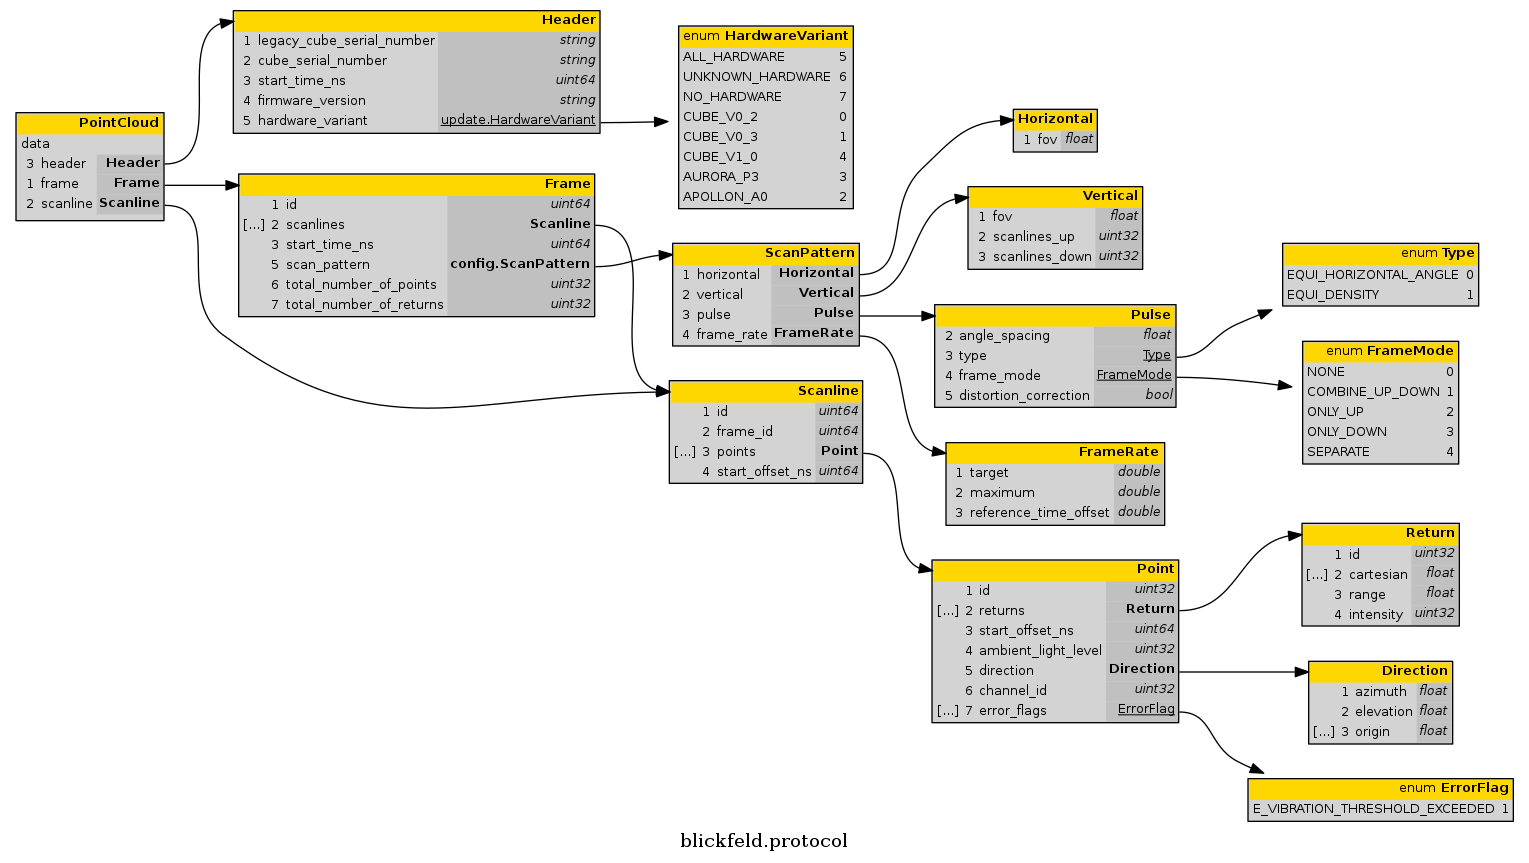
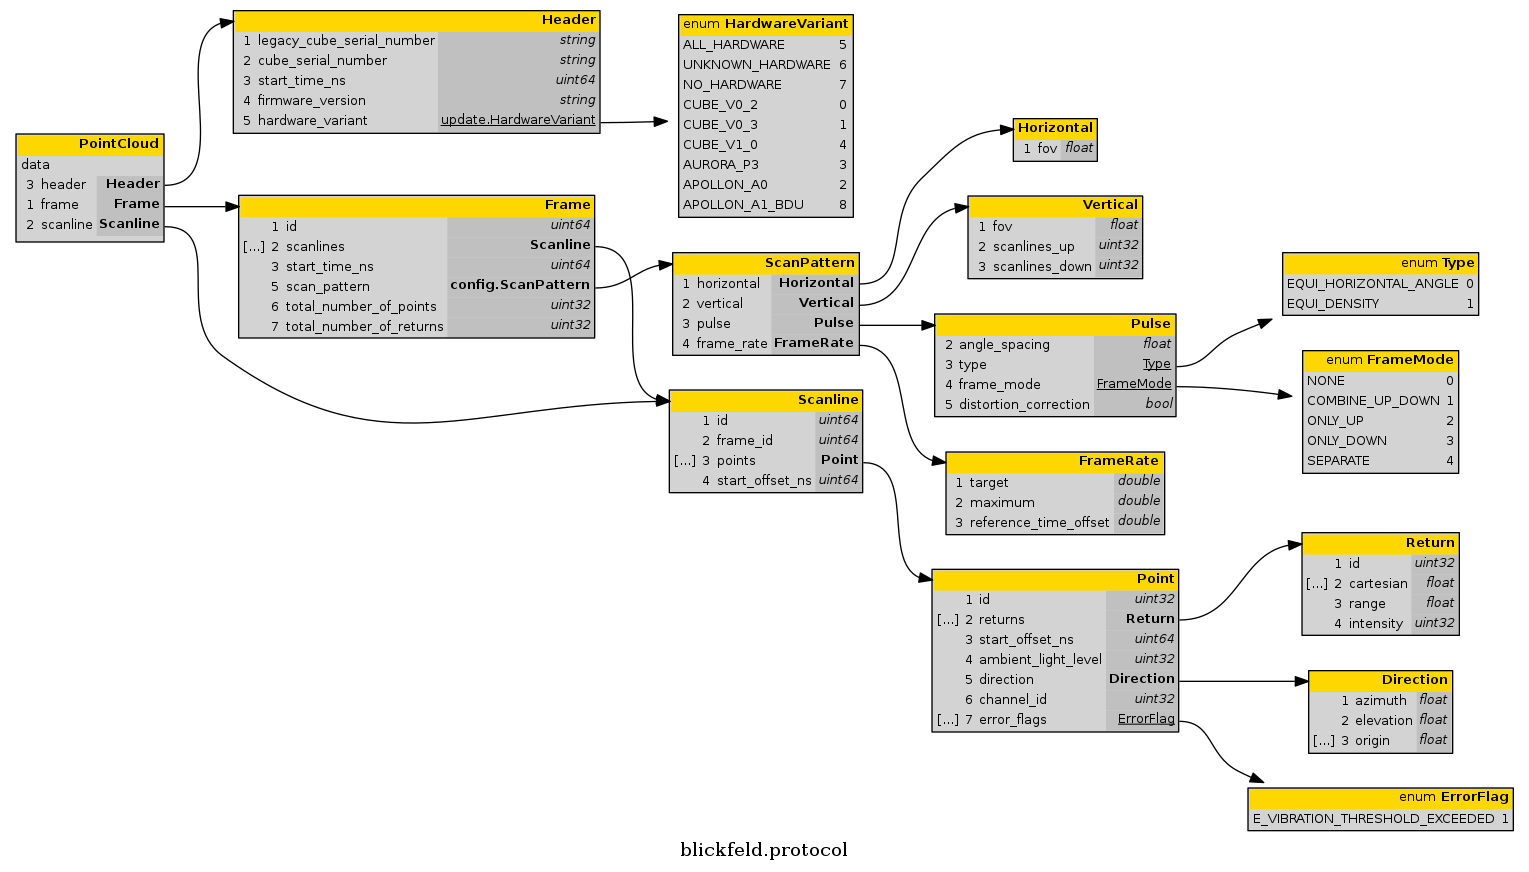
Public-Auto-release: v2.10.1
# Added
* Protocol: HW Variant Apollon A1 BDU
* Reference frame for depth map

# Changed
* Doc: Fix rendering of python point cloud stream
* Doc: Add configure point cloud stream to python examples in the doc
* Upgrade debian testing package to libprotobuf23

diff --git a/python/blickfeld_scanner/stream/point_cloud.py b/python/blickfeld_scanner/stream/point_cloud.py
@@ -56,7 +56,26 @@ REF_FRAME_XYZ_I_ID_TS.start_time_ns = 0
 REF_FRAME_XYZ_I_ID_TS.scanlines[0].start_offset_ns = 0
 REF_FRAME_XYZ_I_ID_TS.scanlines[0].points[0].start_offset_ns = 0
 
+""" Reference frame: ambient_light_level, intensity, range, frame id, scanline id, point id """
+REF_FRAME_DEPTH_MAP = frame_pb2.Frame()
+REF_FRAME_DEPTH_MAP.scan_pattern.SetInParent()
+REF_FRAME_DEPTH_MAP.total_number_of_points = 0
+REF_FRAME_DEPTH_MAP.total_number_of_returns = 0
+REF_FRAME_DEPTH_MAP.id = 0
+REF_FRAME_DEPTH_MAP.scanlines.add().points.add().returns.add()
+REF_FRAME_DEPTH_MAP.scanlines[0].id = 0
+REF_FRAME_DEPTH_MAP.scanlines[0].points[0].id = 0
+REF_FRAME_DEPTH_MAP.scanlines[0].points[0].ambient_light_level = 0
+REF_FRAME_DEPTH_MAP.scanlines[0].points[0].returns[0].intensity = 0
+REF_FRAME_DEPTH_MAP.scanlines[0].points[0].returns[0].range = 0
+
+
 class point_cloud(object):
+    """ Class to request a point cloud stream
+
+    :param connection: connection to the device
+    :type connection: :py:class:`blickfeld_scanner.scanner.connection`
+    """
 
     """ Reference frame: XYZ coordinates """
     REF_FRAME_XYZ = REF_FRAME_XYZ
@@ -66,12 +85,9 @@ class point_cloud(object):
     REF_FRAME_XYZ_I_ID = REF_FRAME_XYZ_I_ID
     """ Reference frame: XYZ coordinates, intensity, frame id, scanline id, point id, return id, timestamps """
     REF_FRAME_XYZ_I_ID_TS = REF_FRAME_XYZ_I_ID_TS
+    """ Reference frame: ambient_light_level, intensity, range, frame id, scanline id, point id """
+    REF_FRAME_DEPTH_MAP = REF_FRAME_DEPTH_MAP
 
-    """ Class to request a point cloud stream
-
-    :param connection: connection to the device
-    :type connection: :py:class:`blickfeld_scanner.scanner.connection`
-    """
     def __init__(self, connection=None, from_file=None, filter=None, reference_frame=None):
         self._metadata = point_cloud_pb2.PointCloud.Metadata()
         

diff --git a/examples/cpp/fetch_clouds/main.cpp b/examples/cpp/fetch_clouds/main.cpp
@@ -58,16 +58,15 @@ int example(int argc, char* argv[]) {
 		std::cout << frame << std::endl;
 
 		// Example for available attributes in frame
-//		time_t time_s = frame.start_time_ns() / 1e9;
-//		auto timepoint = localtime(&time_s);
-//		// Print some basic information about this frame
-//		printf ("Frame:  scanlines %u (max %0.2f Hz - current %0.2f Hz) - timestamp %f - %s",
-//			   frame.scanlines_size(),
-//			   frame.scan_pattern().frame_rate().maximum(),
-//			   frame.scan_pattern().frame_rate().target(),
-//			   frame.start_time_ns() / 1e9,
-//			   asctime(timepoint)
-//			   );
+		time_t time_s = frame.start_time_ns() / 1e9;
+		auto timepoint = localtime(&time_s);
+		printf ("Frame attributes:  scanlines %u (max %0.2f Hz - current %0.2f Hz) - timestamp %f - %s",
+			   frame.scanlines_size(),
+			   frame.scan_pattern().frame_rate().maximum(),
+			   frame.scan_pattern().frame_rate().target(),
+			   frame.start_time_ns() / 1e9,
+			   asctime(timepoint)
+			   );
 
 		// Specify number of points printed per frame
 		int print_n_points = 3;
@@ -93,11 +92,11 @@ int example(int argc, char* argv[]) {
 
 					// Example for available attributes
 					// ret.cartesian(0) equals frame.scanlines(s_ind).points(p_ind).returns(r_ind).cartesian(0)
-//					if (p_ind < 10 && s_ind == 0)
-//						printf("Point %u - ret %u [x: %4.2f, y: %4.2f, z: %4.2f] - intensity: %u\n",
-//						       point.id(), ret.id(),
-//						       ret.cartesian(0), ret.cartesian(1), ret.cartesian(2),
-//						       ret.intensity());
+					if (p_ind < print_n_points && s_ind == 0)
+						printf("Point attributes: ret %u [x: %4.2f, y: %4.2f, z: %4.2f] - intensity: %u\n",
+						       ret.id(),
+						       ret.cartesian(0), ret.cartesian(1), ret.cartesian(2),
+						       ret.intensity());
 				}
 				if (p_ind < print_n_points && s_ind == 0)
 					std::cout << std::endl;

diff --git a/include/blickfeld/scanner.h b/include/blickfeld/scanner.h
@@ -76,6 +76,7 @@ public:
 	const protocol::data::Frame REF_FRAME_XYZ_I; // Reference frame: XYZ coordinates, intensity
 	const protocol::data::Frame REF_FRAME_XYZ_I_ID; // Reference frame: XYZ coordinates, intensity, frame id, scanline id, point id, return id
 	const protocol::data::Frame REF_FRAME_XYZ_I_ID_TS; // Reference frame: XYZ coordinates, intensity, frame id, scanline id, point id, return id, timestamps
+	const protocol::data::Frame REF_FRAME_DEPTH_MAP; // Reference frame: ambient_light_level, intensity, range, frame id, scanline id, point id
 #endif
 
 	/**
@@ -281,7 +282,7 @@ public:
 	std::shared_ptr<scanner::point_cloud_stream<protocol::data::Frame> > get_point_cloud_stream();
 
 	/**
-	 * > Introduced in BSL v2.9 and firmware v1.9
+	 * > Introduced in BSL v2.10 and firmware v1.9
 	 *
 	 * Fetches point cloud frames from the device.
 	 * This call already boots up the device.
@@ -294,7 +295,7 @@ public:
 	std::shared_ptr<scanner::point_cloud_stream<protocol::data::Frame> > get_point_cloud_stream(const protocol::stream::Subscribe::PointCloud::Filter filter);
 
 	/**
-	 * > Introduced in BSL v2.9 and firmware v1.9
+	 * > Introduced in BSL v2.10 and firmware v1.9
 	 *
 	 * Fetches point cloud frames from the device.
 	 * This call already boots up the device.
@@ -307,7 +308,7 @@ public:
 	std::shared_ptr<scanner::point_cloud_stream<protocol::data::Frame> > get_point_cloud_stream(const protocol::data::Frame reference_frame);
 
 	/**
-	 * > Introduced in BSL v2.9 and firmware v1.9
+	 * > Introduced in BSL v2.10 and firmware v1.9
 	 *
 	 * Fetches point cloud frames from the device.
 	 * This call already boots up the device.

diff --git a/python/blickfeld_scanner/scanner.py b/python/blickfeld_scanner/scanner.py
@@ -96,11 +96,11 @@ class scanner(object):
         """ Request point cloud stream of device
 
         :param filter: 
-            > Introduced in BSL v2.9 and firmware v1.9
+            > Introduced in BSL v2.10 and firmware v1.9
             
             Filter points and returns by point attributes during the post-processing on the device.
         :param reference_frame: 
-            > Introduced in BSL v2.9 and firmware v1.9
+            > Introduced in BSL v2.10 and firmware v1.9
             
             Frame representing the desired data. To request a field, set it to any value (also in submessages). For a repeated field, add at least one element.
         :returns: :py:class:`blickfeld_scanner.scanner.stream.point_cloud` object
@@ -190,7 +190,7 @@ class scanner(object):
             log.info("Configured NTP server to '%s'. Please power cycle the device to apply changes." % (self.get_ntp_server()))
             
     def run_self_test(self):
-        """> Introduced in BSL v2.9 and firmware v1.9
+        """> Introduced in BSL v2.10 and firmware v1.9
         
         Run self test on the device.
         See :any:`protobuf_protocol` Request.RunSelfTest.

diff --git a/examples/python/configure_point_cloud_stream.py b/examples/python/configure_point_cloud_stream.py
@@ -5,6 +5,8 @@
 # This source code is licensed under the BSD-style license found in the
 # LICENSE.md file in the root directory of this source tree.
 #
+# > Introduced in BSL v2.10 and firmware v1.9
+#
 from __future__ import print_function
 
 import argparse
@@ -14,7 +16,8 @@ from blickfeld_scanner.protocol.stream import connection_pb2
 
 
 def configure_point_cloud_stream(args):
-    """Fetch the point cloud of a device and print the frame ID and number of returns in the received frame.
+    """Fetch a basic point cloud. Only get specific fields of each point: X, Y, Z, intensity and ID.
+    Use a filter to filter out points which are closer than 5m or further away than 50m.
 
     :param args: arguments to parse out the hostname or IP address of the device and an optional file path to record to.
     """

diff --git a/src/scanner.cpp b/src/scanner.cpp
@@ -360,6 +360,22 @@ scanner::scanner(std::string hostname_or_ip, std::string cert_key_file) :
 		ref_return->set_intensity(0.0f);
 		return ref;
 	} ()),
+	REF_FRAME_DEPTH_MAP([] {
+		protocol::data::Frame ref;
+		ref.mutable_scan_pattern();
+		ref.set_total_number_of_points(0);
+		ref.set_total_number_of_returns(0);
+		ref.set_id(0);
+		auto ref_scanline = ref.add_scanlines();
+		ref_scanline->set_id(0);
+		auto ref_point = ref_scanline->add_points();
+		ref_point->set_id(0);
+		ref_point->set_ambient_light_level(0.0f);
+		auto ref_return = ref_point->add_returns();
+		ref_return->set_intensity(0.0f);
+		ref_return->set_range(0.0f);
+		return ref;
+	} ()),
 	#endif
 	io_context(new asio::io_context()),
 	hostname_or_ip(hostname_or_ip) {

diff --git a/examples/cpp/configurable_point_cloud_stream/main.cpp b/examples/cpp/configurable_point_cloud_stream/main.cpp
@@ -5,7 +5,7 @@
  * This source code is licensed under the BSD-style license found in the
  * LICENSE.md file in the root directory of this source tree.
  *
- * > Introduced in BSL v2.9 and firmware v1.9
+ * > Introduced in BSL v2.10 and firmware v1.9
  *
  */
 #include <stdio.h>

diff --git a/doc/protobuf_protocol.md b/doc/protobuf_protocol.md
@@ -357,7 +357,7 @@ This request is used for initial communication after connecting to a device and 
 <a name="blickfeld.protocol.Request.RunSelfTest"></a>
 
 ### Request.RunSelfTest
-> Introduced in BSL v2.9 and firmware v1.9
+> Introduced in BSL v2.10 and firmware v1.9
 
 This request triggers a self test of the device.
 It validates the hardware, operates the device, and generates a report.
@@ -483,7 +483,7 @@ This response is sent out after establishing a connection.
 <a name="blickfeld.protocol.Response.RunSelfTest"></a>
 
 ### Response.RunSelfTest
-> Introduced in BSL v2.9 and firmware v1.9
+> Introduced in BSL v2.10 and firmware v1.9
 
 This response is returned after a self test.
 The success flag indicates if the hardware is fully operational.
@@ -1649,8 +1649,8 @@ This request is used for subscribing to a point cloud stream.
 
 | Field | Type | Label | Description |
 | ----- | ---- | ----- | ----------- |
-| reference_frame | [blickfeld.protocol.data.Frame](#blickfeld.protocol.data.Frame) | optional | <blockquote>Introduced in BSL v2.9 and firmware v1.9</blockquote> If present, only fields that are set in this message and submessages will be present in the point cloud. If less fields are requested, the Protobuf encoding and network transport time can reduce significantly. |
-| filter | [Subscribe.PointCloud.Filter](#blickfeld.protocol.stream.Subscribe.PointCloud.Filter) | optional | <blockquote>Introduced in BSL v2.9 and firmware v1.9</blockquote> Refer to [PointCloud.Filter](#blickfeld.protocol.stream.Subscribe.PointCloud.Filter) |
+| reference_frame | [blickfeld.protocol.data.Frame](#blickfeld.protocol.data.Frame) | optional | <blockquote>Introduced in BSL v2.10 and firmware v1.9</blockquote> If present, only fields that are set in this message and submessages will be present in the point cloud. If less fields are requested, the Protobuf encoding and network transport time can reduce significantly. |
+| filter | [Subscribe.PointCloud.Filter](#blickfeld.protocol.stream.Subscribe.PointCloud.Filter) | optional | <blockquote>Introduced in BSL v2.10 and firmware v1.9</blockquote> Refer to [PointCloud.Filter](#blickfeld.protocol.stream.Subscribe.PointCloud.Filter) |
 
 
 
@@ -1660,7 +1660,7 @@ This request is used for subscribing to a point cloud stream.
 <a name="blickfeld.protocol.stream.Subscribe.PointCloud.Filter"></a>
 
 ### Subscribe.PointCloud.Filter
-> Introduced in BSL v2.9 and firmware v1.9
+> Introduced in BSL v2.10 and firmware v1.9
 
 Filter points and returns by point attributes during the post-processing on the device.
 This can be used to e.g. filter points with low intensity or to enable secondary returns.
@@ -1751,6 +1751,7 @@ do NOT change enum labels, they are used as strings in code
 | CUBE_V1_0 | 4 |  |
 | AURORA_P3 | 3 |  |
 | APOLLON_A0 | 2 |  |
+| APOLLON_A1_BDU | 8 |  |
 
 
  <!-- end enums -->

diff --git a/doc/CHANGELOG.md b/doc/CHANGELOG.md
@@ -13,6 +13,17 @@ influence the resulting point cloud.
 
 ### Removed
 
+## [2.10.1] - 2020.07.21
+
+### Added
+* Protocol: HW Variant Apollon A1 BDU
+* Reference frame for depth map
+
+### Changed
+* Doc: Fix rendering of python point cloud stream
+* Doc: Add configure point cloud stream to python examples in the doc
+* Upgrade debian testing package to libprotobuf23
+
 ## [2.10.0] - 2020.07.10
 
 ### Added

diff --git a/doc/install.rst b/doc/install.rst
@@ -46,7 +46,7 @@ Latest debian-based systems
 .. code-block:: bash
 
     sudo apt update
-    sudo apt install -y wget libprotobuf-dev libprotobuf22
+    sudo apt install -y wget libprotobuf-dev libprotobuf23
     wget https://github.com/Blickfeld/blickfeld-scanner-lib/releases/latest/download/blickfeld-scanner-lib-dev-testing-Linux.deb
     sudo dpkg -i blickfeld-scanner-lib-dev-testing-Linux.deb
 

diff --git a/doc/python_examples.rst b/doc/python_examples.rst
@@ -12,3 +12,4 @@ To fully understand the code, please refer to the source code as well.
    autoapi/fetch_point_cloud/index.rst
    autoapi/error_handling/index.rst
    autoapi/getting_started_example/index.rst
+   autoapi/configure_point_cloud_stream/index.rst
